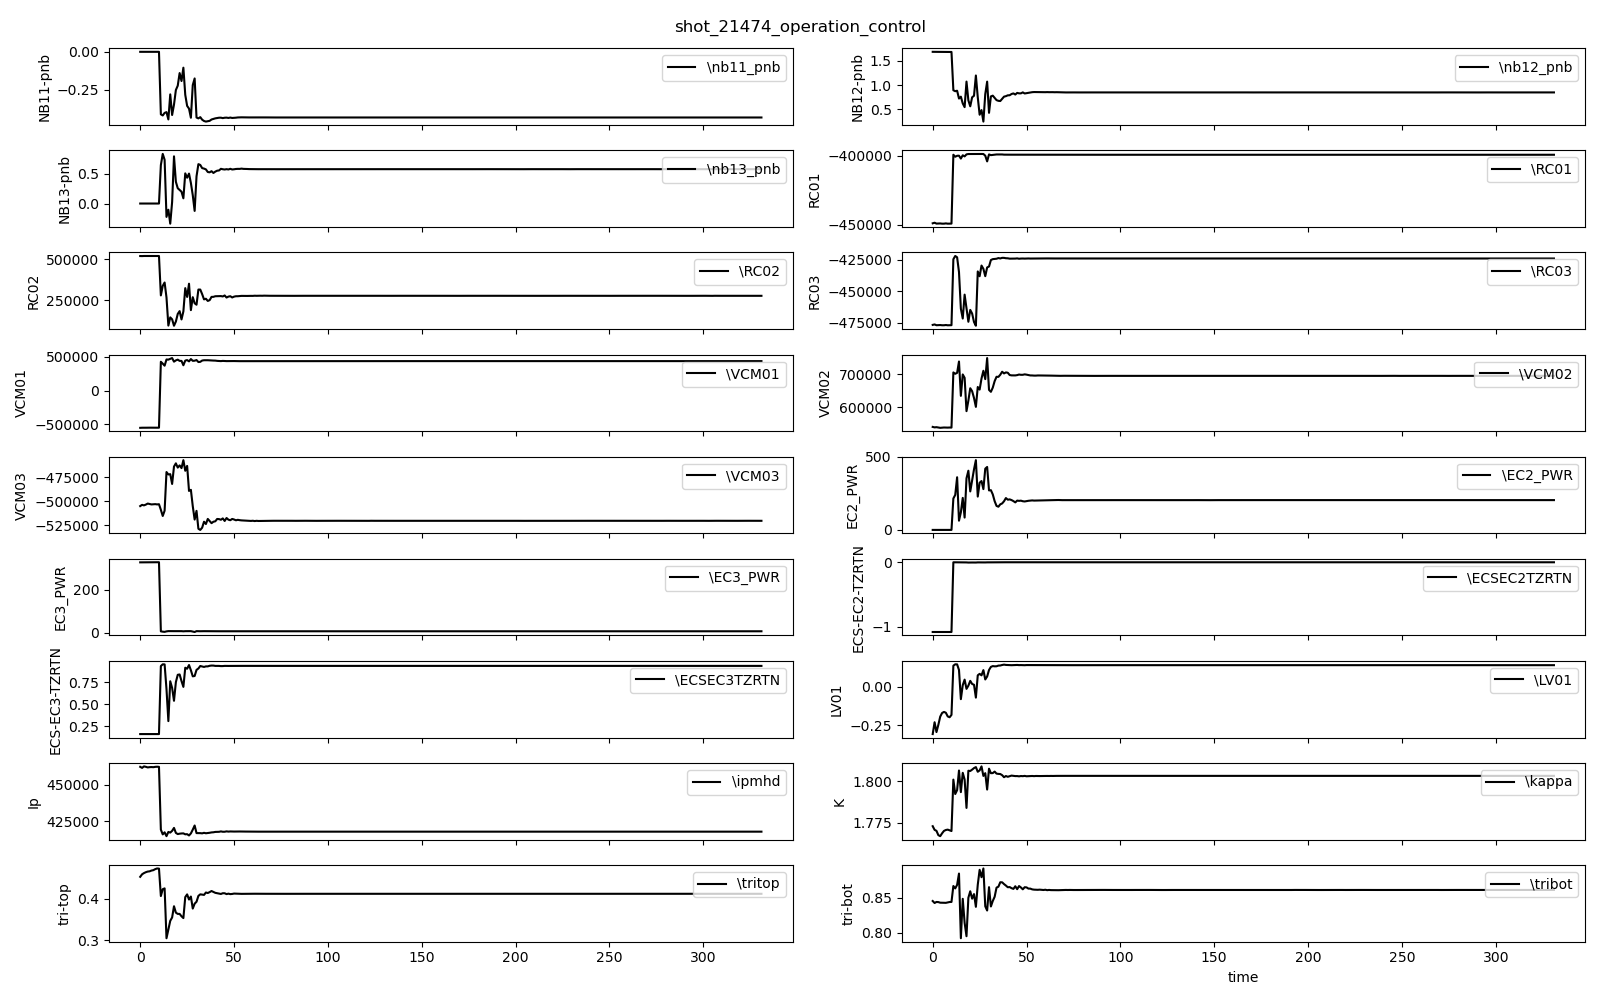
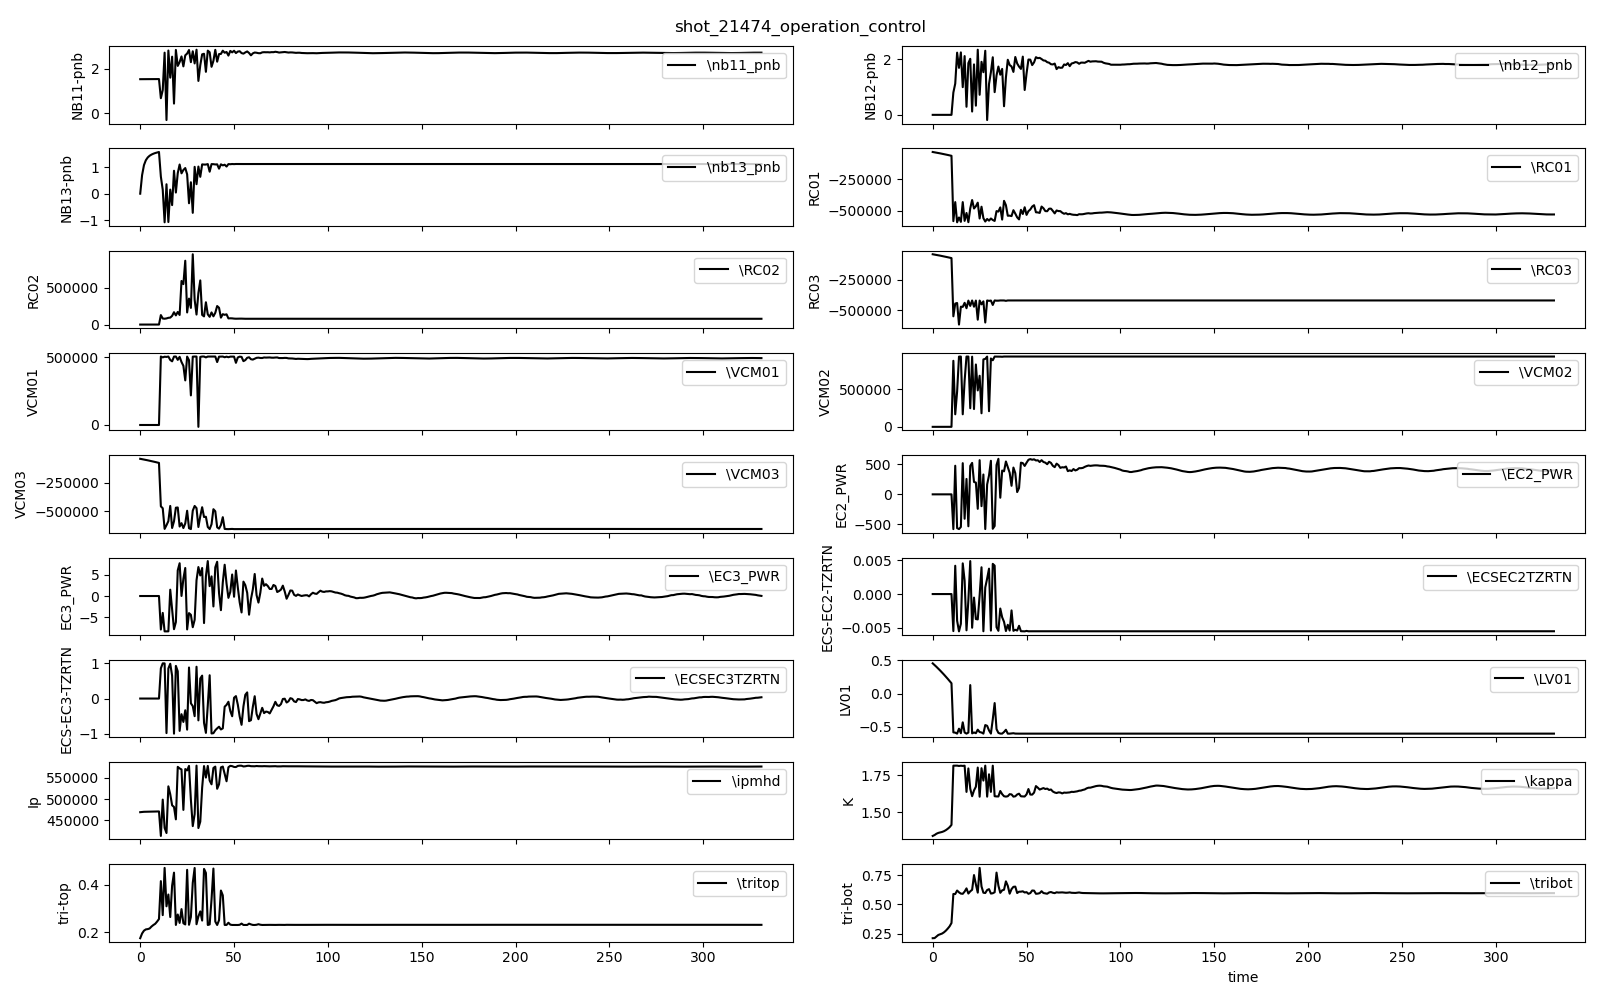
update DDPG result

diff --git a/play_ddpg.py b/play_ddpg.py
@@ -2,10 +2,11 @@ from src.rl.evaluate import evaluate_ddpg
 from src.rl.env import NeuralEnv
 from src.nn_env.transformer import Transformer
 from src.rl.rewards import RewardSender
-from src.rl.utility import InitGenerator, preparing_initial_dataset
+from src.rl.utility import InitGenerator, preparing_initial_dataset, get_range_of_output
 from src.rl.ddpg import Actor, Critic
 from src.rl.buffer import ReplayBuffer
 from src.config import Config
+from src.rl.video_generator import generate_control_performance
 import torch
 import argparse, os
 import pandas as pd
@@ -25,7 +26,7 @@ def parsing():
     # scenario for training
     parser.add_argument("--shot_random", type = bool, default = False)
     parser.add_argument("--t_init", type = float, default = 0.0)
-    parser.add_argument("--t_terminal", type = float, default = 16.0)
+    parser.add_argument("--t_terminal", type = float, default = 10.0)
     parser.add_argument("--dt", type = float, default = 0.05)
         
     # predictor config
@@ -47,7 +48,6 @@ print("torch device num : ", torch.cuda.device_count())
 torch.cuda.init()
 torch.cuda.empty_cache()
 
-    
 if __name__ == "__main__":
     
     # parsing
@@ -99,9 +99,6 @@ if __name__ == "__main__":
     # reward
     reward_sender = RewardSender(targets_dict, total_cols = cols_0D)
     
-    # environment
-    env = NeuralEnv(predictor=model, device = device, reward_sender = reward_sender, seq_len = seq_len, pred_len = pred_len, t_terminal = args['t_terminal'], dt = args['dt'])
-    
     # step 1. real data loaded
     df = pd.read_csv("./dataset/KSTAR_Disruption_ts_data_extend.csv").reset_index(drop = True)
     df_disruption = pd.read_csv("./dataset/KSTAR_Disruption_Shot_List.csv", encoding='euc-kr').reset_index(drop = True)
@@ -110,6 +107,12 @@ if __name__ == "__main__":
     df, scaler_0D, scaler_ctrl = preparing_initial_dataset(df, cols_0D, cols_control, 'Robust')
     
     init_generator = InitGenerator(df, t_init, cols_0D, cols_control, seq_len, pred_len, True, None)
+    
+    # info for range of action space
+    range_info = get_range_of_output(df, cols_control)
+    
+    # environment
+    env = NeuralEnv(predictor=model, device = device, reward_sender = reward_sender, seq_len = seq_len, pred_len = pred_len, range_info = range_info, t_terminal = args['t_terminal'], dt = args['dt'])
     
     # Actor and Critic Network
     input_dim = len(cols_0D)
@@ -197,3 +200,18 @@ if __name__ == "__main__":
     ax.set_xlabel('time')
     fig.tight_layout()
     plt.savefig(save_file)
+    
+    # gif file generation
+    title = "ani_shot_{}_operation_control".format(shot_num)
+    save_file = os.path.join(save_dir, "{}.gif".format(title))
+    generate_control_performance(
+        save_file,
+        total_state,
+        total_action,
+        cols_0D,
+        cols_control,
+        targets_dict,
+        "shot_{}_operation_control".format(shot_num),
+        args['dt'],
+        24,
+    )

diff --git a/src/rl/video_generator.py b/src/rl/video_generator.py
@@ -1,0 +1,60 @@
+import matplotlib.pyplot as plt
+import matplotlib.animation as animation
+import numpy as np
+import pandas as pd
+import os, cv2, glob2
+import torch
+from torch.utils.data import Dataset, DataLoader
+from typing import Optional, Literal, Union, List, Dict
+from src.config import Config
+
+config = Config()
+
+def generate_control_performance(
+        file_path : str,
+        total_state : np.array,
+        total_action : np.array,
+        cols_0D : List,
+        cols_ctrl : List,
+        targets_dict : Dict,
+        title : str,
+        dt : float,
+        plot_freq : int,
+    ):
+    
+    # generate gif file using animation
+    time_x = [i * dt for i in range(0, len(total_state))]
+    
+    # step 1. 0D case
+    fig, axes = plt.subplots(len(cols_0D), 1, figsize = (16,12), sharex=True, facecolor = 'white')
+    plt.suptitle(title)
+    fig.tight_layout()
+    
+    axes_info_0D = []
+    
+    for col, ax in zip(cols_0D, axes.ravel()):
+        ax_point = ax.plot([],[], label = config.COL2STR[col])[0]
+        axes_info_0D.append(ax_point)
+    
+    def replay(idx : int):
+        for j, (ax_ori, ax) in enumerate(zip(axes.ravel(), axes_info_0D)):
+            ax.set_data(time_x[:idx], total_state[:idx,j])
+            
+            col = cols_0D[j]
+            
+            if col in list(targets_dict.keys()):
+                ax_ori.axhline(targets_dict[col], xmin = 0, xmax = 1)
+                ax_ori.set_ylabel(config.COL2STR[col])
+                ax_ori.legend(loc = "upper right")
+            else:
+                ax_ori.set_ylabel(config.COL2STR[col])
+                ax_ori.legend(loc = "upper right") 
+                
+            ax_ori.set_xlabel('time')
+            ax_ori.set_ylim([0,5])
+            ax_ori.set_xlim([0, max(time_x)])
+      
+    indices = [i for i in range(len(total_state))]
+    ani = animation.FuncAnimation(fig, replay, frames = indices)
+    writergif = animation.PillowWriter(fps = plot_freq)
+    ani.save(file_path, writergif)

diff --git a/src/rl/actions.py b/src/rl/actions.py
@@ -1,29 +1,28 @@
 import gym
 import numpy as np
+import torch
 from typing import List, Dict
 
 class NormalizedActions(gym.ActionWrapper):
-    def action(self, action):
-        low_bound = self.action_space.low
-        upper_bound = self.action_space.high
+    def reverse_action(self, action:torch.Tensor):
         
-        action = low_bound + (action + 1.0) * 0.5 * (upper_bound - low_bound)
-        action = np.clip(action, low_bound, upper_bound)
+        low_bound = self.action_space['low']
+        upper_bound = self.action_space['upper']
+        
+        low_bound_ = torch.Tensor(low_bound).repeat(1,action.size()[1],1)
+        upper_bound_ = torch.Tensor(upper_bound).repeat(1,action.size()[1],1)
+        
+        action = low_bound_ + (action + 1.0) * 0.5 * (upper_bound_ - low_bound_)
         
         return action
 
-    def reverse_action(self, action):
-        low_bound   = self.action_space.low
-        upper_bound = self.action_space.high
+    def action(self, action:torch.Tensor):
+        low_bound   = self.action_space['low']
+        upper_bound = self.action_space['upper']
         
-        action = 2 * (action - low_bound) / (upper_bound - low_bound) - 1
-        action = np.clip(action, low_bound, upper_bound)
+        low_bound_ = torch.Tensor(low_bound).repeat(1,action.size()[1],1)
+        upper_bound_ = torch.Tensor(upper_bound).repeat(1,action.size()[1],1)
+        
+        action = 2 * (action - (low_bound_ + upper_bound_)/2) / (upper_bound_ - low_bound_)
         
         return action
-    
-# Each control parameter have limit variation over time
-# We reduce its incline and decline rates + Maximum and minimum value + On / Off value
-class CtrlValScaler:
-    def __init__(self, ctrl_setup : Dict):
-        self.setup = ctrl_setup
-        self.ctrl_names = ctrl_setup.keys()

diff --git a/train_ddpg.py b/train_ddpg.py
@@ -1,9 +1,10 @@
 from src.rl.env import NeuralEnv
 from src.nn_env.transformer import Transformer
 from src.rl.rewards import RewardSender
-from src.rl.utility import InitGenerator, preparing_initial_dataset
+from src.rl.utility import InitGenerator, preparing_initial_dataset, get_range_of_output
 from src.rl.ddpg import Actor, Critic, train_ddpg, OUNoise
 from src.rl.buffer import ReplayBuffer
+from src.rl.actions import NormalizedActions
 from src.config import Config
 import torch
 import argparse, os
@@ -115,9 +116,6 @@ if __name__ == "__main__":
     # reward
     reward_sender = RewardSender(targets_dict, total_cols = cols_0D)
     
-    # environment
-    env = NeuralEnv(predictor=model, device = device, reward_sender = reward_sender, seq_len = seq_len, pred_len = pred_len, t_terminal = args['t_terminal'], dt = args['dt'])
-    
     # step 1. real data loaded
     df = pd.read_csv("./dataset/KSTAR_Disruption_ts_data_extend.csv").reset_index(drop = True)
     df_disruption = pd.read_csv("./dataset/KSTAR_Disruption_Shot_List.csv", encoding='euc-kr').reset_index(drop = True)
@@ -126,6 +124,15 @@ if __name__ == "__main__":
     df, scaler_0D, scaler_ctrl = preparing_initial_dataset(df, cols_0D, cols_control, 'Robust')
     
     init_generator = InitGenerator(df, t_init, cols_0D, cols_control, seq_len, pred_len, True, None)
+    
+    # info for output range
+    range_info = get_range_of_output(df, cols_control)
+    
+    # environment
+    env = NeuralEnv(predictor=model, device = device, reward_sender = reward_sender, seq_len = seq_len, pred_len = pred_len, range_info = range_info, t_terminal = args['t_terminal'], dt = args['dt'])
+    
+    # action rapper
+    env = NormalizedActions(env)
     
     # Replay Buffer
     memory = ReplayBuffer(capacity=100000)

diff --git a/src/rl/env.py b/src/rl/env.py
@@ -17,13 +17,14 @@ from gym import error, spaces
 from gym import utils
 from gym.utils import seeding
 from src.rl.rewards import RewardSender
+from typing import Dict
 import logging
 
 logger = logging.getLogger(__name__)
 
 class NeuralEnv(gym.Env):
     metadata = {'render.modes':['human']} # what does it means?
-    def __init__(self, predictor : nn.Module, device : str, reward_sender : RewardSender, seq_len : int, pred_len : int, t_terminal : float = 4.0, dt : float = 0.01):
+    def __init__(self, predictor : nn.Module, device : str, reward_sender : RewardSender, seq_len : int, pred_len : int, range_info : Dict, t_terminal : float = 4.0, dt : float = 0.01):
         super().__init__()
         # predictor : output as next state of plasma
         self.predictor = predictor.to(device)
@@ -52,6 +53,12 @@ class NeuralEnv(gym.Env):
         
         # output sequence length
         self.pred_len = pred_len    
+        
+        # range information about action space
+        self.action_space = {
+            'low' : [range_info[col][0] for col in range_info.keys()],
+            'upper' : [range_info[col][1] for col in range_info.keys()],
+        }
     
     # update initial condition for plasma operation
     def update_init_state(self, init_state : torch.Tensor, init_action : torch.Tensor):

diff --git a/train_scinet.py b/train_scinet.py
@@ -24,9 +24,9 @@ parser.add_argument("--root_dir", type = str, default = "./weights/")
 parser.add_argument("--tag", type = str, default = "SimpleSCINet")
 parser.add_argument("--use_scaler", type = bool, default = True)
 parser.add_argument("--scaler", type = str, default = 'Robust', choices = ['Standard', 'Robust', 'MinMax'])
-parser.add_argument("--seq_len", type = int, default = 16)
-parser.add_argument("--pred_len", type = int, default = 16)
-parser.add_argument("--interval", type = int, default = 2)
+parser.add_argument("--seq_len", type = int, default = 10)
+parser.add_argument("--pred_len", type = int, default = 1)
+parser.add_argument("--interval", type = int, default = 4)
 
 args = vars(parser.parse_args())
 
@@ -139,7 +139,6 @@ if __name__ == "__main__":
         tensorboard_dir = tensorboard_dir,
         test_for_check_per_epoch = test_loader
     )
-    
     
     model.load_state_dict(torch.load(save_best_dir))
 

diff --git a/train_transformer.py b/train_transformer.py
@@ -153,6 +153,7 @@ if __name__ == "__main__":
     shot_num = 20600
     df_shot = ts_test[ts_test.shot == shot_num].reset_index(drop = True)
     
+    # virtual experiment shot 
     generate_shot_data_from_self(
         model,
         df_shot,
@@ -168,6 +169,7 @@ if __name__ == "__main__":
         save_dir = os.path.join("./result/", "{}_seq{}_dis{}_without_real_data.png".format(args['tag'], args['seq_len'], args['pred_len']))
     )
     
+    # feedback from real data
     generate_shot_data_from_real(
         model,
         df_shot,

diff --git a/src/rl/utility.py b/src/rl/utility.py
@@ -38,6 +38,17 @@ def preparing_initial_dataset(
         
     return df, scaler_0D, scaler_ctrl
 
+# get maximum value and minimum value of action space
+def get_range_of_output(df : pd.DataFrame, cols_ctrl : List):
+    
+    range_info = {}
+
+    for col in cols_ctrl:
+        min_val = df[col].min()
+        max_val = df[col].max()
+        range_info[col] = [min_val, max_val]
+    
+    return range_info
 
 # class for generating the initial state of the plasma and inital control values
 # initial state : (1, seq_len, n_0D_parameters)

diff --git a/src/config.py b/src/config.py
@@ -102,6 +102,6 @@ class Config():
     
     # control target value
     DEFAULT_TARGETS = {
-        "\\betap" : 3.0,
-        "\\q95" : 4.0,
+        "\\betan" : 3.0,
+        # "\\q95" : 4.0,
     }

diff --git a/README.md b/README.md
@@ -1,21 +1,74 @@
 # Plasma Shape Control under the equilibrium of GS equation via Deep Reinforcement Learning
 ## Introduction
+- This is github repository for research on tokamak plasma operation control using Deep Reinforcement Learning
+- We aim to control two targets with sustaining stable operation
+(1) Beta-N over 3.0
+(2) Plasma boundary shape control
+- We replace tokamak environment by neural network based virtual environment. Transformer model is used as a 0D parameter predictor
+- OpenAI gym based environment is implemented for training policy network. 
+- We select DDPG as a policy gradient based RL due to its 2 significant benefits
+(1) Efficient data sampling 
+(2) Work well(?) on continuous action space
+- The test shot control with initial information of shot 21747 in KSTAR
+<div>
+    <p float = 'left'>
+        <img src="/image/shot_21474_operation_0D.png"  width="480" height="360">
+    </p>
+</div>
 
-<p>Research for plasma shape control using Deep Reinforcement Learning</p>
+## Scheme for this research
+- Below is the overall scheme for our research
+<div>
+    <p float = 'left'>
+        <img src="/image/scheme.png"  width="480" height="360">
+    </p>
+</div>
 
-## How to Run(Test)
-```
-```
-## Code Structure
-```
-```
+## How to Run
+- Training 0D parameter predictor : Transformer based network
+    ```
+    python3 train_transformer.py --gpu_num {gpu number} --num_epoch {number of epoch}
+                                 --batch_size {batch size} --lr {learning rate}
+                                 --verbose {verbose} --gamma {decay constant}
+                                 --max_norm_grad {maximum norm grad} --root_dir {directory for saving result}
+                                 --tag {tag name} --use_scaler {bool}
+                                 --scaler {'Robust','Standard','MinMax'} --seq_len {input sequence length}
+                                 --pred_len {output sequence length} --interval {data split interval}
+    ```
+- Training 0D parameter predictor : SCINet based network
+    ```
+    python3 train_scinet.py --gpu_num {gpu number} --num_epoch {number of epoch}
+                            --batch_size {batch size} --lr {learning rate}
+                            --verbose {verbose} --gamma {decay constant}
+                            --max_norm_grad {maximum norm grad} --root_dir {directory for saving result}
+                            --tag {tag name} --use_scaler {bool}
+                            --scaler {'Robust','Standard','MinMax'} --seq_len {input sequence length}
+                            --pred_len {output sequence length} --interval {data split interval}
+    ```
+- Training policy network : DDPG algorithm
+    ```
+    python3 train_ddpg.py --gpu_num {gpu number} --num_epoch {number of epoch}
+                          --shot_random {bool} --t_init {initial time}
+                          --t_terminal {terminal time} --dt {time interval}
+                          --tag {tag name} --save_dir {directory for saving result}
+                          --batch_size {batch size} --num_episode {number of episode}
+                          --lr {learning rate} --gamma {decay constant}
+                          --min_value {minimum value for action} --max_value {maximum value for action}
+                          --tau {constant for updating policy} --verbose {verbose}
+                          --predictor_weight {directory of saved weight file} --seq_len {input sequence length}
+                          --pred_len {output sequence length}
+    ```
 
 ## Detail
-### model for use
-
-### algorithm
+### model / algorithm
+- SCINet : https://arxiv.org/abs/2106.09305
+- Transformer : https://arxiv.org/abs/1706.03762
+- DDPG : https://arxiv.org/abs/1509.02971
 
 ### Dataset
+- iKSTAR 
 
 ## Reference
 - Deep Neural Network-Based Surrogate Model for Optimal Component Sizing of Power Converters Using Deep Reinforcement Learning(https://ieeexplore.ieee.org/stamp/stamp.jsp?tp=&arnumber=9841555)
+- Feedforward beta control in the KSTAR tokamak by deep reinforcement learning, Jaemin Seo et al : https://iopscience.iop.org/article/10.1088/1741-4326/ac121b/meta
+- Magnetic control of tokamak plasmas through deep reinforcement learning, Jonas Degrave, Federico Felici et al : https://iopscience.iop.org/article/10.1088/1741-4326/ac121b/meta
